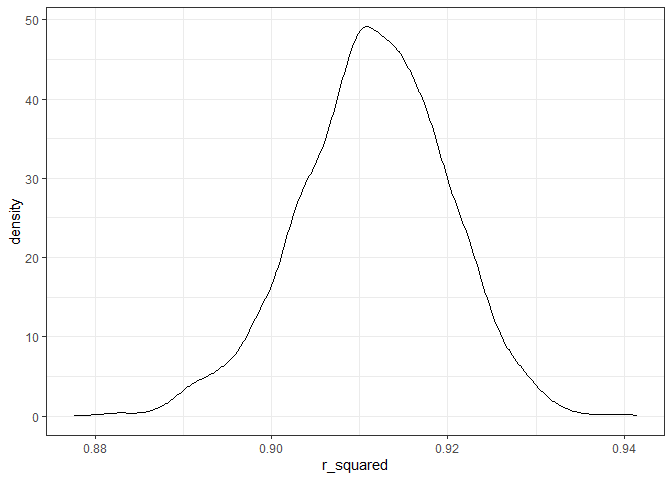
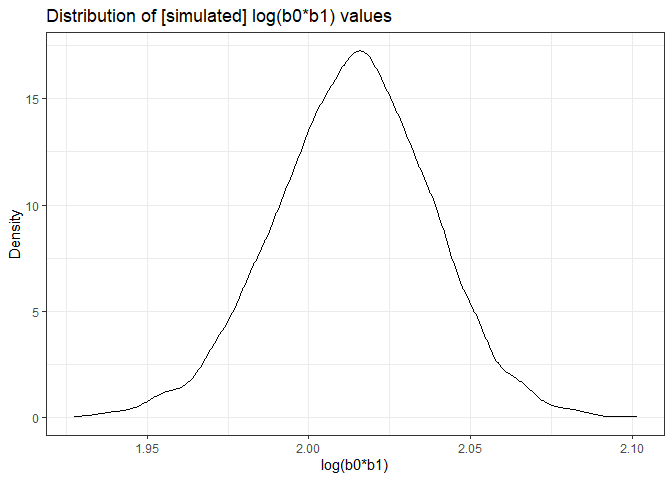
last commit! finishing the write up, making it look nicer, knitting

diff --git a/p8105_hw6_mgg2153.md b/p8105_hw6_mgg2153.md
@@ -70,9 +70,21 @@ outcomes, namely, birthweight
 
 <img src="images/Sandy_DAG.png" style="width:75%">
 
+Of course, the data we have here are different: we are looking at
+factors that influence birth outcomes NOT in the context of natural
+disaster\! Nevertheless, the DAG and the literature point to the
+variables I listed above as being influential in determining
+birthweight. Thus, I included them in my regression model below.
+Additionally, I generated a plot of the residuals generated from my
+model vs. the predicted values for the regression diagnostics plot
+
 ``` r
 mg_model = lm(bwt ~ gaweeks+mrace+ppbmi+fincome+momage, data = bwt_df)
+```
 
+Model estimates are summarized below:
+
+``` r
 mg_model %>% broom::tidy()
 ```
 
@@ -88,11 +100,13 @@ mg_model %>% broom::tidy()
     ## 7 fincome        0.558     0.294     1.90  5.74e-  2
     ## 8 momage        -0.238     1.95     -0.122 9.03e-  1
 
+And here is the plot that I mentioned above\!
+
 ``` r
 bwt_df %>%
   modelr::add_predictions(mg_model) %>%
   modelr::add_residuals(mg_model) %>%
-  ggplot(aes(x = resid, y = pred))+geom_point()+#look back at regression notes :D
+  ggplot(aes(x = pred, y = resid))+geom_point()+#look back at regression notes :D
   geom_smooth(se = FALSE, method = "lm", color = "green")+
   theme_bw()+
   labs(
@@ -105,8 +119,21 @@ bwt_df %>%
 
     ## `geom_smooth()` using formula 'y ~ x'
 
-![](p8105_hw6_mgg2153_files/figure-gfm/my_model-1.png)<!-- --> \#\#\#\#
-Model comparisons, cross-validation using modelr
+![](p8105_hw6_mgg2153_files/figure-gfm/unnamed-chunk-2-1.png)<!-- -->
+Looking at the plot, it looks like the residuals are symmetrical around
+the line at y = 0. This kind of plot can be used to assess whether the
+residuals from your regression are normally distributed. Since the
+points are symmetrical, aka evenly distributed, it seems like the
+residuals are evenly distributed and thus the normal distribution of
+residuals assumption is satisfied for linear regression.
+
+#### Model comparisons, cross-validation using modelr
+
+Now we will cross-validate three models; the two below with the model I
+constructed above
+
+1)  
+<!-- end list -->
 
 ``` r
 #main effects model
@@ -122,6 +149,9 @@ main_effect %>% broom::tidy()
     ## 1 (Intercept)  -4348.      98.0      -44.4 0.      
     ## 2 blength        129.       1.99      64.6 0.      
     ## 3 gaweeks         27.0      1.72      15.7 2.36e-54
+
+2)  
+<!-- end list -->
 
 ``` r
 #head circumference, length, sex, and all interactions
@@ -142,6 +172,8 @@ saturated %>% broom::tidy()
     ## 7 blength:babysex2        -124.       35.1      -3.52  0.000429    
     ## 8 bhead:blength:babysex2     3.88      1.06      3.67  0.000245
 
+**cross validation step**
+
 ``` r
 cv_df =
   crossv_mc(bwt_df, 100)
@@ -149,7 +181,7 @@ cv_df =
 cv_df = 
 cv_df %>%
   mutate(
-    mg_model = map(train, ~lm(bwt ~ gaweeks+mrace+ppbmi, data = .x)),
+    mg_model = map(train, ~lm(bwt ~ gaweeks+mrace+ppbmi+fincome+momage, data = .x)),
     main_effect = map(train, ~lm(bwt ~ blength + gaweeks, data = .x)),
     saturated = map(train, ~lm(bwt ~ bhead*blength*babysex, data = .x))
   ) %>%
@@ -160,7 +192,7 @@ cv_df %>%
   )
 ```
 
-Look at distribution of RMSEs
+Look at distribution of RMSEs to see which model is best
 
 ``` r
 cv_df %>% 
@@ -173,14 +205,23 @@ cv_df %>%
   mutate(model = fct_inorder(model)) %>% 
   ggplot(aes(x = model, y = rmse)) +
   geom_boxplot(aes(fill=model))+
-  theme_bw()
+  theme_bw()+
+  labs(
+    x = "Model",
+    y = "RMSE",
+    title = "RMSE distribution across 3 models"
+  )+
+  theme(legend.position = "none")
 ```
 
-![](p8105_hw6_mgg2153_files/figure-gfm/unnamed-chunk-3-1.png)<!-- -->
+![](p8105_hw6_mgg2153_files/figure-gfm/unnamed-chunk-5-1.png)<!-- -->
+
+Looks like the clear winner is the saturated model(we want the smallest
+RMSE), with the three-way interaction\!
 
 ### Problem 3
 
-Wow this looks like a fun one
+Let’s load in the noaa data
 
 ``` r
 weather_df = 
@@ -210,7 +251,13 @@ weather_df =
 set.seed(1)
 ```
 
-For the log betas
+Lets use bootstrap and generate models for tmax = tmin, then let’s pull
+the estimates of the intercepts (b0) and the slopes (b1) and create the
+log of the product of these two. Note: R uses log to mean natural log,
+and log10 for log base 10. Since this is a biostats class, let’s use log
+aka natural log :-)
+
+Below is the process to summarize the 95% confidence interval
 
 ``` r
 weather_df %>%
@@ -231,17 +278,17 @@ weather_df %>%
     log_b_hats = log(intercept*tmin)
   )%>%
   summarize(
-    ll_ci = quantile(log_b_hats, c(.025)),
-    ul_ci = quantile(log_b_hats, c(.975))
+    lower_limit = quantile(log_b_hats, c(.025)),
+    upper_limit = quantile(log_b_hats, c(.975))
   )%>%
   knitr::kable()
 ```
 
-|   ll\_ci |   ul\_ci |
-| -------: | -------: |
-| 1.964949 | 2.058887 |
+| lower\_limit | upper\_limit |
+| -----------: | -----------: |
+|     1.964949 |     2.058887 |
 
-For the r squared
+And now we follow a similar process for the r hat squared
 
 ``` r
 weather_df %>%
@@ -254,16 +301,16 @@ weather_df %>%
   unnest(results) %>%
   janitor::clean_names()%>%
   summarize(
-    ll_ci = quantile(r_squared, c(.025)),
-    ul_ci = quantile(r_squared, c(.975))
+    lower_limit = quantile(r_squared, c(.025)),
+    upper_limit = quantile(r_squared, c(.975))
   )%>% knitr::kable()
 ```
 
-|    ll\_ci |    ul\_ci |
-| --------: | --------: |
-| 0.8933116 | 0.9272795 |
+| lower\_limit | upper\_limit |
+| -----------: | -----------: |
+|    0.8933116 |    0.9272795 |
 
-Plots\!
+*and last but not least…* PLOTS of the distributions of the estimates\!
 
 ``` r
 weather_df %>%
@@ -283,10 +330,15 @@ weather_df %>%
   mutate(
     log_b_hats = log(intercept*tmin)
   )%>%
-  ggplot(aes(x = log_b_hats))+geom_density()+theme_bw()
+  ggplot(aes(x = log_b_hats))+geom_density()+theme_bw()+
+  labs(
+    x = "log(b0*b1)",
+    y = "Density",
+    title = "Distribution of [simulated] log(b0*b1) values"
+  )
 ```
 
-![](p8105_hw6_mgg2153_files/figure-gfm/unnamed-chunk-7-1.png)<!-- -->
+![](p8105_hw6_mgg2153_files/figure-gfm/unnamed-chunk-8-1.png)<!-- -->
 
 ``` r
 weather_df %>%
@@ -298,7 +350,14 @@ weather_df %>%
   select(-strap, -models) %>%
   unnest(results) %>%
   janitor::clean_names()%>%
-  ggplot(aes(x = r_squared))+geom_density()+theme_bw()
+  ggplot(aes(x = r_squared))+geom_density()+theme_bw()+
+  labs(
+    x = "R (hat) squared",
+    y = "Density",
+    title = "Distribution of [simulated] R (hat) squared values"
+  )
 ```
 
-![](p8105_hw6_mgg2153_files/figure-gfm/unnamed-chunk-8-1.png)<!-- -->
+![](p8105_hw6_mgg2153_files/figure-gfm/unnamed-chunk-9-1.png)<!-- -->
+
+Both plots look like a good old normal distribution :o)
